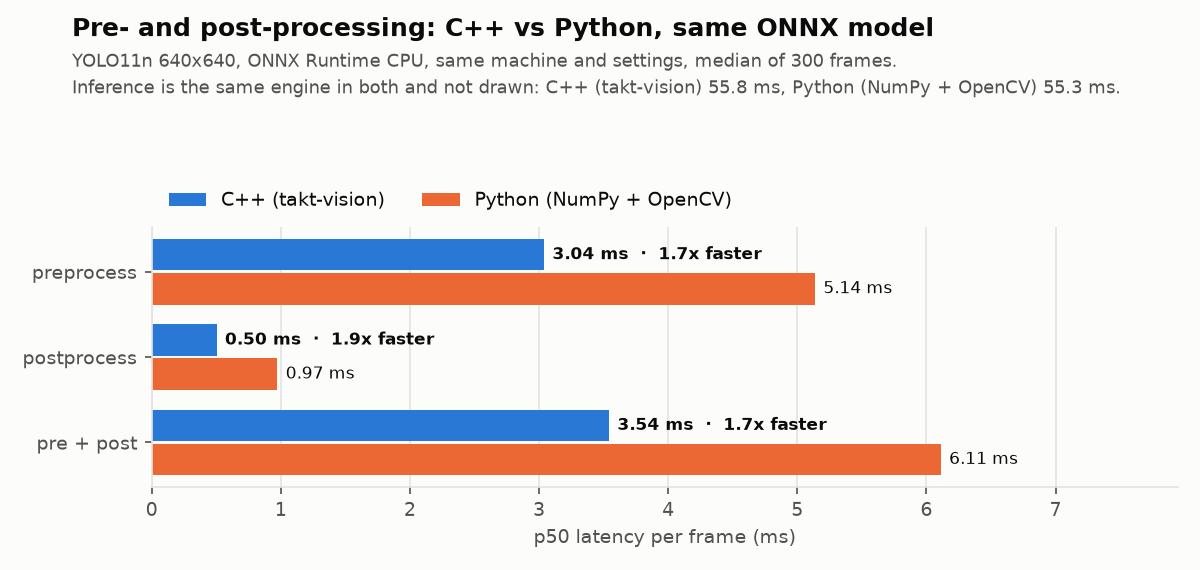
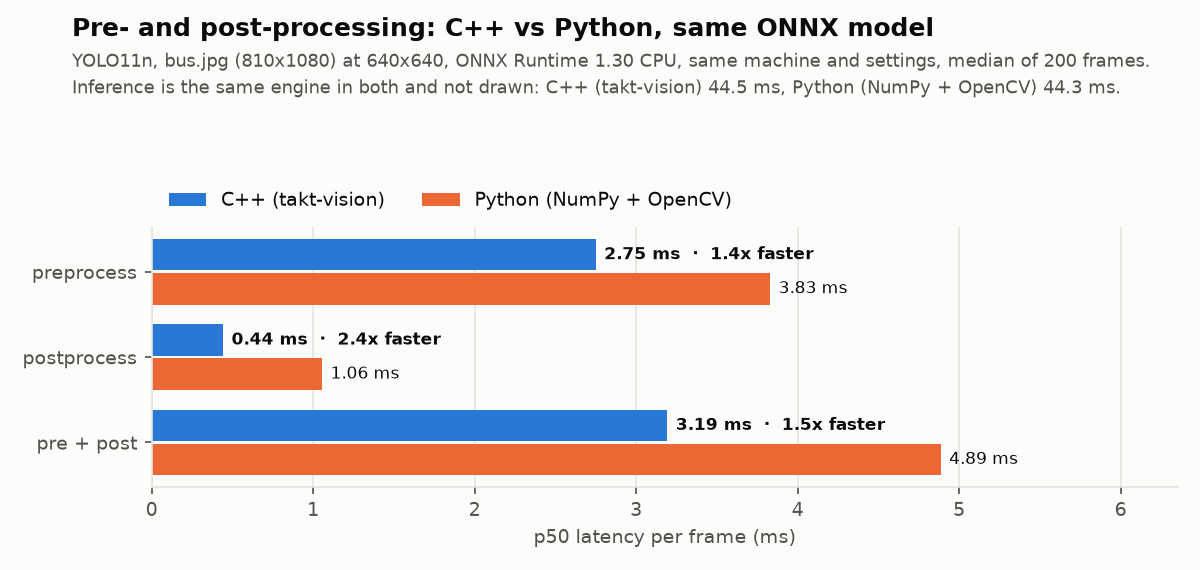
README: C++ vs Python across YOLO11n/s/m, all results from one CI run
- new chart: per-frame latency by model size, stacked by stage, bars labelled
  with their own value and the time C++ saves in the stages takt implements
- results table: postprocess 2.2-2.5x and preprocess 1.1-1.4x faster in C++;
  the fixed ~1-2 ms saving is 3.4 % of a YOLO11n frame, 0.3 % of YOLO11m
- all charts and numbers republished from one run (AMD EPYC 9V74) and the
  CPU named; overload, pipelining (+5 %) and parity updated accordingly

diff --git a/scripts/plot_latency.py b/scripts/plot_latency.py
@@ -197,11 +197,11 @@ def models(args):
                     ax.barh(y, d[key], left=left, height=0.8, color=color, edgecolor=theme["surface"],
                             linewidth=1, label=legend if (i, j) == (0, 0) else None)
                     left += d[key]
-                text = f"{d['total']:.1f} ms"
+                text = f"{left:.1f} ms"  # the bar: sum of the stage medians
                 if impl == "C++":
                     other = data[model, "Python"]
                     saved = (other["preprocess"] + other["postprocess"]) - (d["preprocess"] + d["postprocess"])
-                    text += f"  ·  {saved:.1f} ms saved outside inference"
+                    text += f"  ·  saves {saved:.1f} ms"
                 ax.annotate(text, xy=(left, y), xytext=(5, 0), textcoords="offset points", va="center",
                             fontsize=8, color=theme["text"], fontweight="bold" if impl == "C++" else "normal")
                 ticks.append(y)
@@ -210,9 +210,11 @@ def models(args):
         ax.invert_yaxis()
         ax.set_xlabel("p50 latency per frame (ms): preprocess + inference + postprocess", color=theme["muted"],
                       fontsize=9)
-        ax.margins(x=0.36)
+        ax.margins(x=0.25)
         fig.suptitle(args.title, x=0.06, y=0.97, ha="left", fontsize=12, fontweight="bold", color=theme["text"])
-        fig.text(0.06, 0.915, args.subtitle, ha="left", va="top", fontsize=8.5, color=theme["muted"],
+        note = 'Bars: sum of stage medians. "saves": time saved in pre + post. Inference differs only by noise.'
+        subtitle = f"{args.subtitle}\n{note}" if args.subtitle else note
+        fig.text(0.06, 0.915, subtitle, ha="left", va="top", fontsize=8.5, color=theme["muted"],
                  linespacing=1.5)
         legend = ax.legend(frameon=False, fontsize=9, loc="lower left", bbox_to_anchor=(0, 1.0), ncol=3)
         for text in legend.get_texts():

diff --git a/README.md b/README.md
@@ -66,44 +66,82 @@ OpenCV (`libopencv-dev`) is optional and enables camera/video input and the over
 
 ## Results
 
-All numbers come from the [Demo & benchmarks](.github/workflows/demo.yml) workflow on a
-GitHub-hosted runner (4 vCPU AMD EPYC 7763, Ubuntu 24.04, ONNX Runtime 1.30 CPU).
+Every number and chart below comes from a single run of the
+[Demo & benchmarks](.github/workflows/demo.yml) workflow on a GitHub-hosted runner: 4 vCPU AMD
+EPYC 9V74, Ubuntu 24.04, ONNX Runtime 1.30 on CPU. GitHub assigns different CPU models to
+different runs, so numbers are only compared within one run. An earlier run on an EPYC 7763
+measured the same effects with slightly different magnitudes.
 
-**Latency under overload** (camera 30 fps, detector 40 ms ≈ 25 fps, 20 s):
+### C++ vs Python
+
+Both sides run the same ONNX model through the same ONNX Runtime engine and settings on the same
+image (`bus.jpg`, 810×1080 → 640×640), 200 timed frames each. The Python baseline is typical
+deployment code: `cv2.resize` + `copyMakeBorder` + NumPy for preprocessing, NumPy decoding and
+`cv2.dnn.NMSBoxesBatched` for postprocessing.
+
+<picture>
+  <source media="(prefers-color-scheme: dark)" srcset="docs/assets/cpp_vs_python-dark.png">
+  <img alt="Median preprocessing and postprocessing time per frame, C++ versus Python, on YOLO11n: preprocessing 2.75 vs 3.83 ms, postprocessing 0.44 vs 1.06 ms" src="docs/assets/cpp_vs_python-light.png">
+</picture>
+
+<picture>
+  <source media="(prefers-color-scheme: dark)" srcset="docs/assets/model_sizes-dark.png">
+  <img alt="Per-frame latency by model size, C++ versus Python, stacked by stage: inference dominates and is identical, the C++ saving in preprocessing and postprocessing stays about 1-2 ms" src="docs/assets/model_sizes-light.png">
+</picture>
+
+| Model | Inference, C++ / Python | Pre + post, C++ | Pre + post, Python | Speed-up (pre + post) | Saved per frame |
+|---|---:|---:|---:|---:|---:|
+| YOLO11n | 44.5 / 44.3 ms | 3.19 ms | 4.89 ms | 1.5× | 1.69 ms (3.4 % of the frame) |
+| YOLO11s | 114.7 / 114.2 ms | 3.19 ms | 4.80 ms | 1.5× | 1.61 ms (1.4 % of the frame) |
+| YOLO11m | 331.8 / 329.1 ms | 3.13 ms | 4.03 ms | 1.3× | 0.91 ms (0.3 % of the frame) |
+
+What this shows:
+
+- **Postprocessing is 2.2-2.5× faster in C++** (0.44 ms vs ~1.0 ms): class-major decoding and
+  allocation-free NMS against NumPy plus OpenCV's NMS.
+- **Preprocessing is 1.1-1.4× faster.** takt's fused letterbox is still scalar code, while
+  `cv2.resize` is SIMD-optimised. The margin is narrower than the 1.7× measured on the older
+  EPYC 7763, where NumPy and OpenCV benefit less from wide vector units. A vectorised letterbox kernel would narrow the gap.
+- **Inference is identical** by construction (differences are run-to-run noise, under 1 %). The
+  ~1-2 ms C++ saving is fixed per frame, so it matters most for small, fast models: 3.4 % of a
+  YOLO11n frame, 0.3 % of a YOLO11m frame.
+
+In short: for a single model on a CPU, rewriting the glue in C++ buys a few percent.
+takt-vision's bigger contribution is the runtime around inference: bounded latency under load,
+no allocations, and measured tails.
+
+### Latency under overload
+
+Camera 30 fps, detector 40 ms (≈ 25 fps), 20 s. The chart at the top of this page.
 
 | Ingress policy | End-to-end p50 | p99 | Frames dropped |
 |---|---:|---:|---:|
 | `latest` (default) | **57 ms** | **74 ms** | 101 / 600 |
 | `drop-newest`, depth 4 | 266 ms | 281 ms | 96 / 600 |
-| unbounded FIFO (`block`, depth 256) | 2,081 ms, still growing | 4,096 ms | 0 / 600 |
+| unbounded FIFO (`block`, depth 256) | 2,081 ms, still growing | 4,063 ms | 0 / 600 |
 
 With `latest`, a frame waits on average half an inference period plus one inference: the
 theoretical floor for a single detector.
 
-**Correctness vs. Ultralytics** (same ONNX model, `scripts/check_parity.py`): every detection
-matches one-to-one on a portrait and a landscape test image. Boxes agree within **0.55 px** of
-the 640×640 model input (worst case) and scores within **0.004**. The residual comes from OpenCV's
-8-bit resize versus takt's float resize ([investigation](docs/DESIGN_NOTES.md#parity)).
+### Pipelined vs sequential
 
-**Engineering checks on every push:** 86 tests pass on x86-64 and ARM64. ThreadSanitizer
-reports no races across 80 tests, AddressSanitizer and UBSan are clean, and the steady-state
-pipeline makes **0 heap allocations per frame** across all threads.
+Offline on a 795-frame video with YOLO11n: **21.6 fps pipelined vs 20.6 fps sequential (+5 %)**.
+The gain is small because inference is ~93 % of each frame and competes with the other stages
+for the same four cores. The maximum possible gain is (sum of stages) / (slowest stage), which
+is about 1.07× here ([design notes](docs/DESIGN_NOTES.md#pipelining)).
 
-<picture>
-  <source media="(prefers-color-scheme: dark)" srcset="docs/assets/cpp_vs_python-dark.png">
-  <img alt="Per-stage median latency of the C++ pipeline versus an equivalent Python pipeline on the same YOLO11n ONNX model" src="docs/assets/cpp_vs_python-light.png">
-</picture>
+### Correctness vs Ultralytics
 
-*Same model, same ONNX Runtime settings, same machine. Inference is identical by construction.
-takt-vision is 1.7× faster on the stages it implements: 3.5 ms vs 6.1 ms per frame, most of it the
-fused letterbox. The Python baseline is not naive (its resize and NMS already run in OpenCV's
-C++), so this is the real size of the win.*
+Same ONNX model, `scripts/check_parity.py`, run in CI: every detection matches one-to-one on a
+portrait and a landscape test image. Boxes agree within **0.55 px** of the 640×640 model input
+(worst case) and scores within **0.004**. The residual comes from OpenCV's 8-bit resize versus
+takt's float resize ([investigation](docs/DESIGN_NOTES.md#parity)).
 
-**When does pipelining pay off?** On this 4-vCPU runner, pipelined and sequential throughput are
-equal (17.0 vs 16.9 fps): CPU inference is ~93 % of each frame and competes with the other stages
-for the same cores. Pipelining pays off when inference is offloaded from the CPU (for example
-to a GPU) and the CPU stages become the bottleneck, which is outside this CPU-only benchmark
-([design notes](docs/DESIGN_NOTES.md#pipelining)).
+### Engineering checks on every push
+
+86 tests pass on x86-64 and ARM64. ThreadSanitizer reports no races across 80 tests,
+AddressSanitizer and UBSan are clean, and the steady-state pipeline makes **0 heap allocations
+per frame** across all threads, checked 20 times per run.
 
 ## How it works
 

diff --git a/docs/DESIGN_NOTES.md b/docs/DESIGN_NOTES.md
@@ -218,7 +218,8 @@ settle the default.
 ## 15. When does pipelining pay off?
 
 Measured in CI (4 vCPU, YOLO11n on ONNX Runtime CPU, offline video with `--policy block`):
-pipelined **17.0 fps** vs sequential **16.9 fps**, so no gain. Inference is ~55 ms of a ~59 ms
+pipelined **17.0 fps** vs sequential **16.9 fps** on an EPYC 7763, and **21.6 vs 20.6 fps (+5 %)**
+on an EPYC 9V74, so little to no gain. Inference is ~55 ms of a ~59 ms
 frame, and with stages on separate threads it slows slightly (~59 ms) because the other stages
 compete for the same four cores.
 
